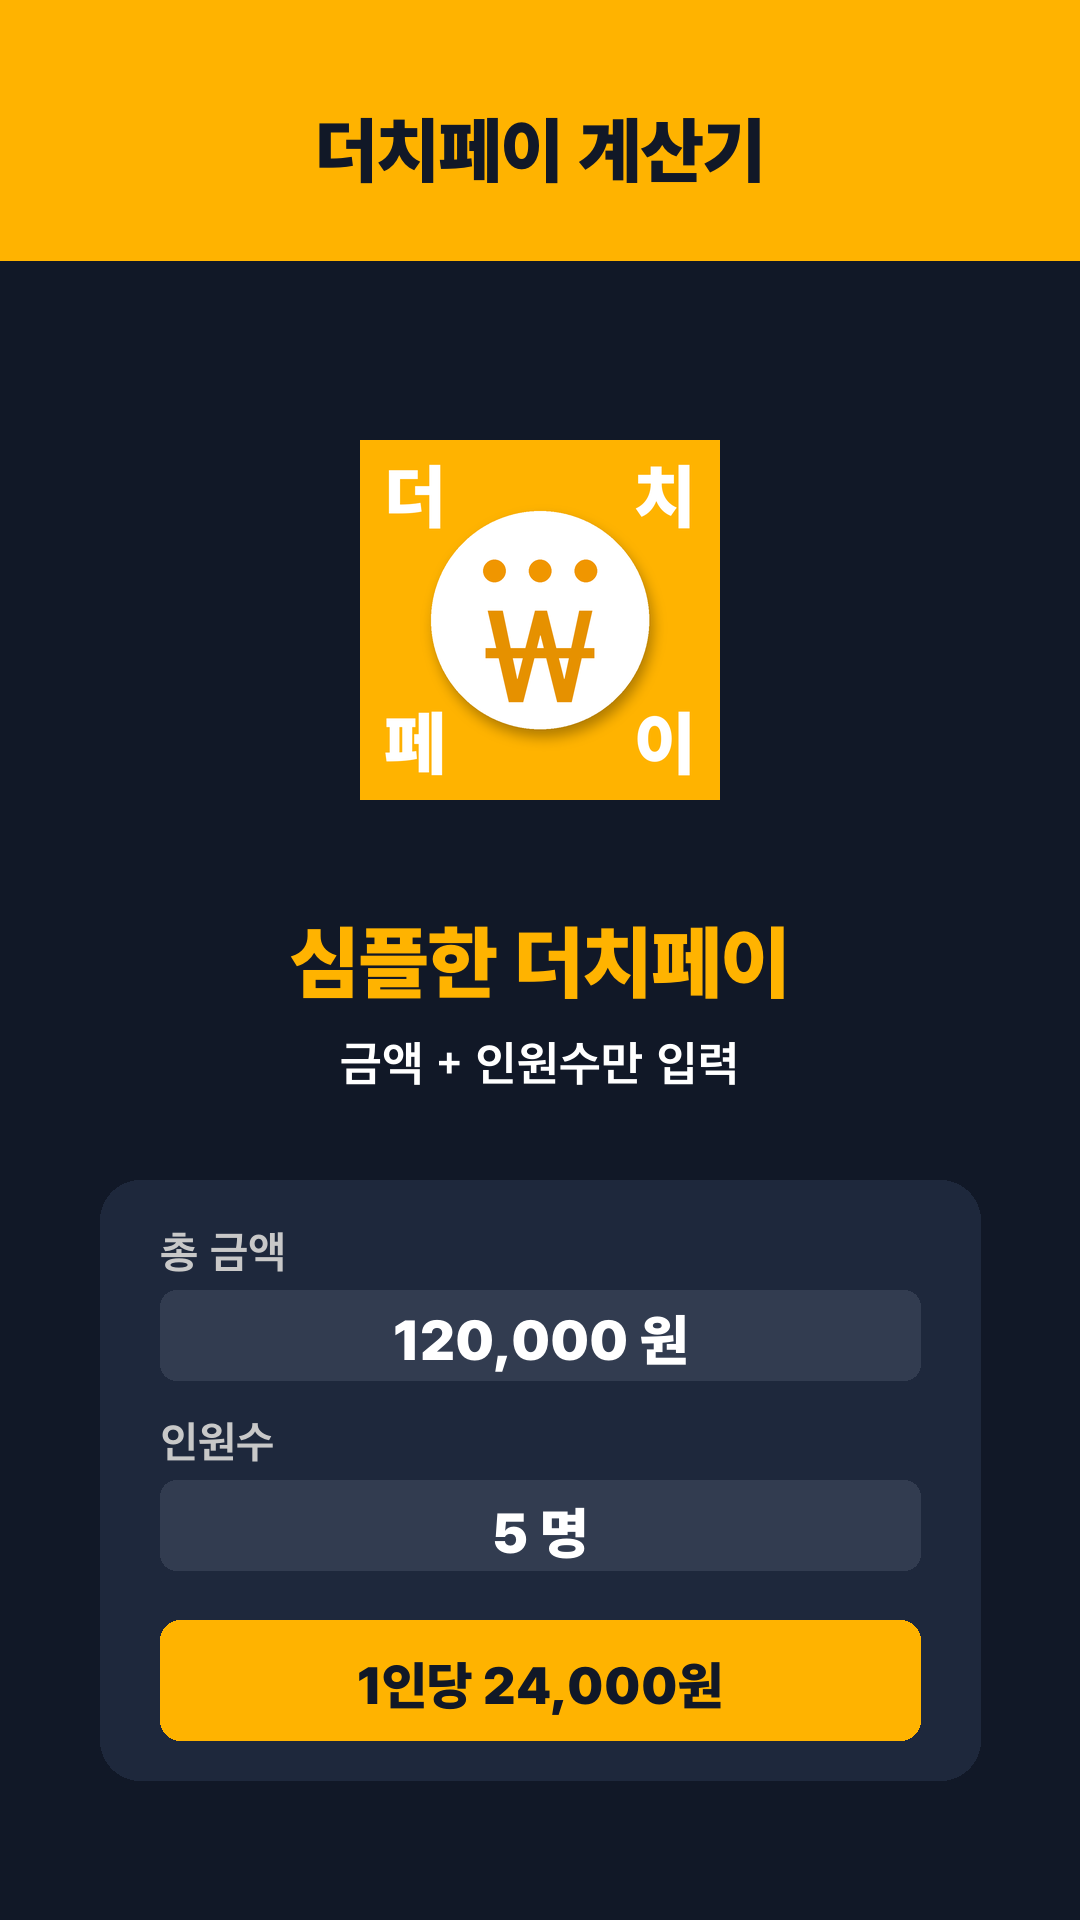
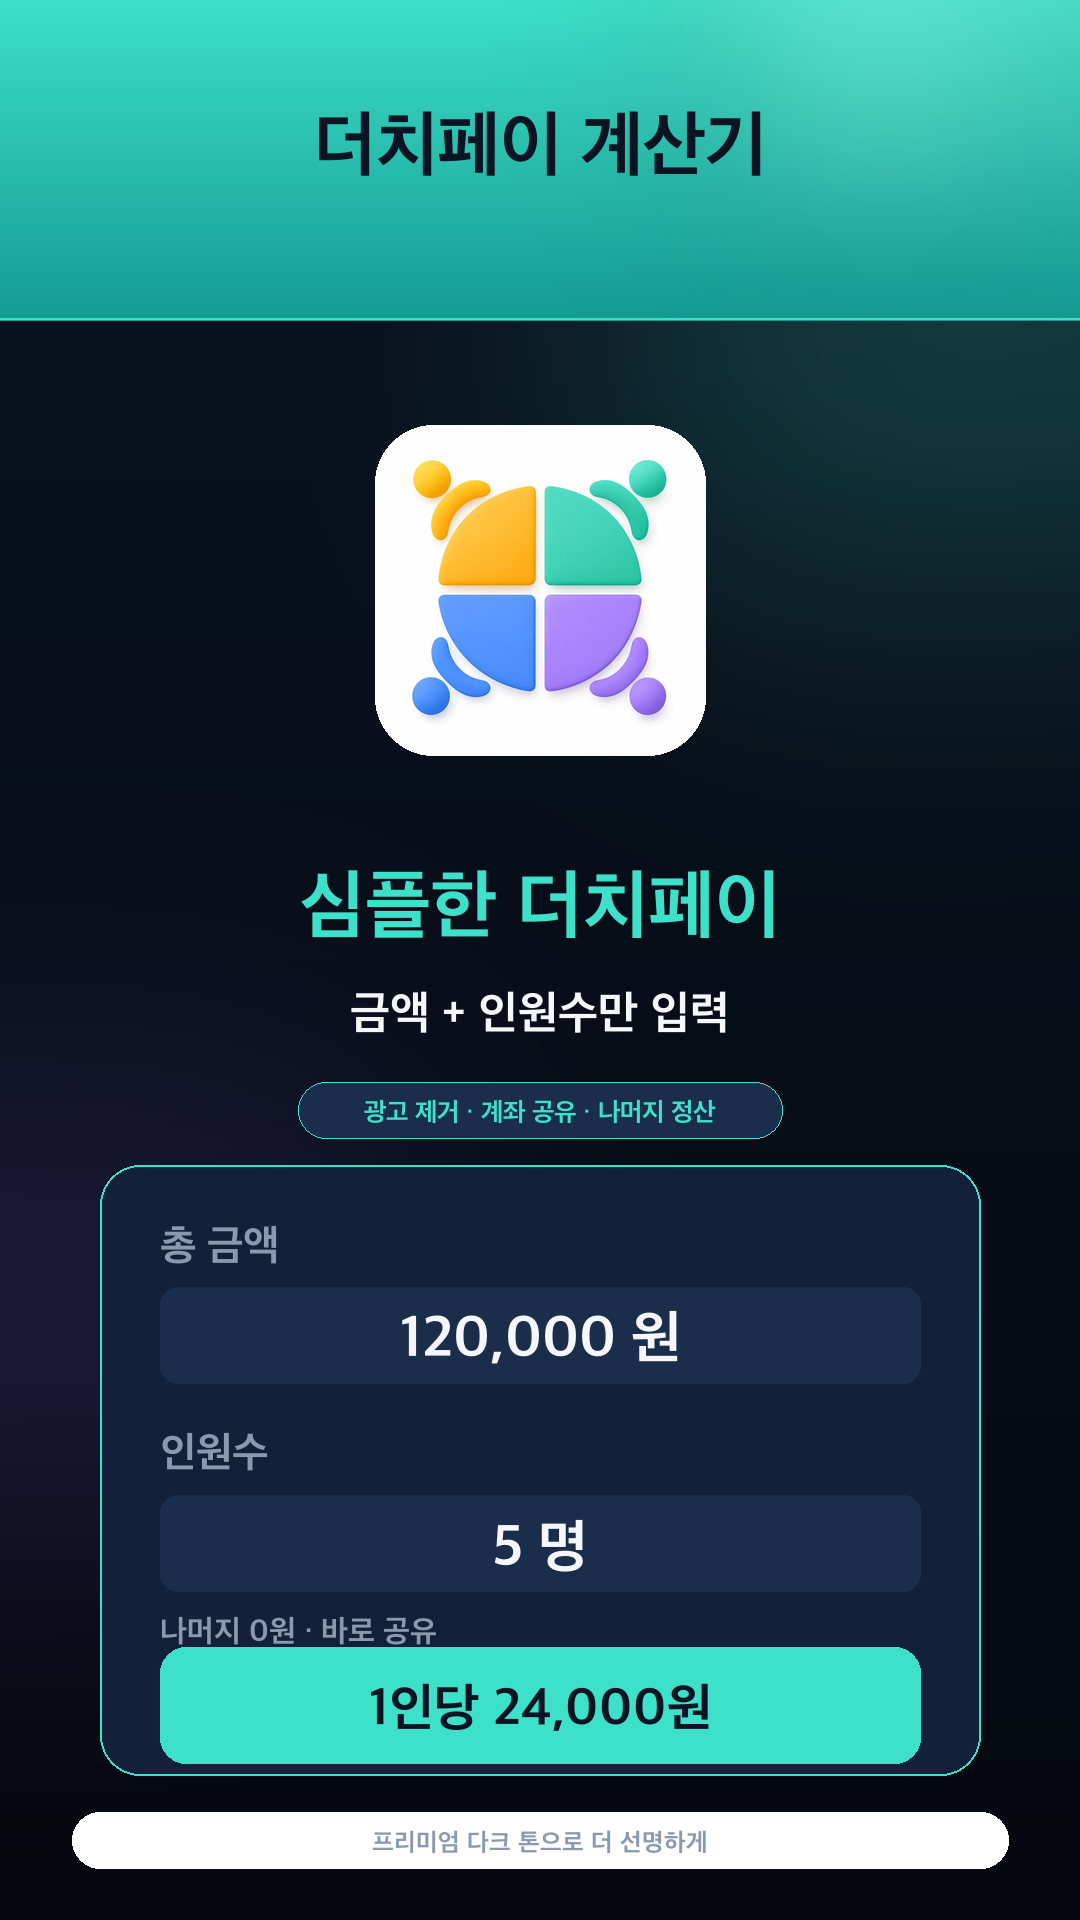
Design dark teal store promo assets (T-260616-31)

diff --git a/icon_design/gen_store_assets.py b/icon_design/gen_store_assets.py
@@ -1,107 +1,202 @@
 """
-Generate Play Store assets for 더치페이 계산기:
+Generate store promo assets for 더치페이 계산기.
+
+Outputs:
 - icon_512.png (512x512)
-- feature_graphic.png (1024x500)
-- placeholder_screenshot_*.png (1080x1920, 2 shots)
+- feature_graphic.png (1024x500, Play feature graphic)
+- screenshot_*.png (1080x1920, Play portrait screenshots)
+- app_store_6_9_screenshot_*.png (1320x2868, iOS 6.9 screenshots)
 """
-from PIL import Image, ImageDraw, ImageFont, ImageFilter
 from pathlib import Path
 
-OUT = Path("/Users/user/dutch_pay_calculator/icon_design/store_assets")
+from PIL import Image, ImageDraw, ImageFilter, ImageFont
+
+ROOT = Path(__file__).resolve().parents[1]
+OUT = ROOT / "icon_design" / "store_assets"
 OUT.mkdir(parents=True, exist_ok=True)
 
-MASTER = Path("/Users/user/dutch_pay_calculator/icon_design/icon_final_1024.png")
-AMBER = (255, 179, 0)
-AMBER_DEEP = (230, 145, 0)
-DARK = (17, 24, 39)
+MASTER = ROOT / "icon_design" / "icon3_master.png"
+
+BG_DEEP = (10, 20, 34)
+BG_BLACK = (5, 8, 15)
+SURFACE = (19, 32, 58)
+SURFACE_ELEVATED = (26, 45, 74)
+TEAL = (61, 224, 200)
+TEAL_DARK = (20, 156, 147)
+TEXT_PRIMARY = (245, 247, 250)
+TEXT_SECONDARY = (138, 152, 176)
 WHITE = (255, 255, 255)
+BLUE = (86, 151, 255)
+VIOLET = (148, 103, 255)
 
 FONT_SDGOTHIC = "/System/Library/Fonts/AppleSDGothicNeo.ttc"
 FONT_PRETENDARD_BLACK = "/Users/user/Library/Fonts/Pretendard-Black.otf"
+
+
+def _font(path, size, index=0):
+    try:
+        return ImageFont.truetype(path, size, index=index)
+    except OSError:
+        return ImageFont.truetype(FONT_SDGOTHIC, size, index=7)
 
 
 def _center_text(d, cx, cy, text, font, fill):
     bbox = d.textbbox((0, 0), text, font=font, anchor="lt")
     w = bbox[2] - bbox[0]
     h = bbox[3] - bbox[1]
-    d.text((cx - w // 2 - bbox[0], cy - h // 2 - bbox[1]),
-           text, font=font, fill=fill)
+    d.text((cx - w // 2 - bbox[0], cy - h // 2 - bbox[1]), text, font=font, fill=fill)
+
+
+def _linear_gradient(size, top, bottom):
+    w, h = size
+    img = Image.new("RGB", size, top)
+    d = ImageDraw.Draw(img)
+    for y in range(h):
+        t = y / max(h - 1, 1)
+        color = tuple(int(top[i] * (1 - t) + bottom[i] * t) for i in range(3))
+        d.line([(0, y), (w, y)], fill=color)
+    return img
+
+
+def _glow(img, center, radius, color, alpha=80):
+    layer = Image.new("RGBA", img.size, (0, 0, 0, 0))
+    d = ImageDraw.Draw(layer, "RGBA")
+    x, y = center
+    d.ellipse([x - radius, y - radius, x + radius, y + radius], fill=(*color, alpha))
+    layer = layer.filter(ImageFilter.GaussianBlur(radius // 2))
+    img.alpha_composite(layer)
+
+
+def _paste_icon(img, box, radius=54):
+    raw = Image.open(MASTER).convert("RGBA")
+    trim = max(1, raw.width // 24)
+    icon = raw.crop((trim, trim, raw.width - trim, raw.height - trim))
+    icon = icon.resize((box[2] - box[0], box[3] - box[1]), Image.LANCZOS)
+    mask = Image.new("L", icon.size, 0)
+    ImageDraw.Draw(mask).rounded_rectangle([0, 0, icon.width, icon.height], radius=radius, fill=255)
+    icon.putalpha(mask)
+    plate = Image.new("RGBA", img.size, (0, 0, 0, 0))
+    pd = ImageDraw.Draw(plate, "RGBA")
+    pd.rounded_rectangle(box, radius=radius, fill=(255, 255, 255, 245))
+    plate.alpha_composite(icon, (box[0], box[1]))
+    img.alpha_composite(plate)
+
+
+def _draw_header_band(img, h):
+    d = ImageDraw.Draw(img, "RGBA")
+    d.rounded_rectangle([0, 0, img.width, h + 60], radius=0, fill=(*TEAL_DARK, 255))
+    band = _linear_gradient((img.width, h + 60), TEAL, TEAL_DARK).convert("RGBA")
+    img.alpha_composite(band, (0, 0))
+    _glow(img, (int(img.width * 0.82), 80), int(img.width * 0.18), WHITE, alpha=38)
+    d.line([(0, h + 58), (img.width, h + 58)], fill=(*TEAL, 70), width=2)
+
+
+def _draw_mock_calculator(d, scale, x, y, w):
+    r = int(40 * scale)
+    h = int(610 * scale)
+    d.rounded_rectangle([x, y, x + w, y + h], radius=r, fill=(*SURFACE, 238), outline=(*TEAL, 58), width=max(1, int(2 * scale)))
+
+    label_font = _font(FONT_SDGOTHIC, int(42 * scale), index=7)
+    value_font = _font(FONT_PRETENDARD_BLACK, int(58 * scale))
+    cta_font = _font(FONT_PRETENDARD_BLACK, int(52 * scale))
+    small_font = _font(FONT_SDGOTHIC, int(31 * scale), index=7)
+
+    pad = int(60 * scale)
+    row_w = w - pad * 2
+
+    d.text((x + pad, y + int(58 * scale)), "총 금액", font=label_font, fill=TEXT_SECONDARY)
+    d.rounded_rectangle([x + pad, y + int(122 * scale), x + pad + row_w, y + int(218 * scale)],
+                        radius=int(18 * scale), fill=(*SURFACE_ELEVATED, 255))
+    _center_text(d, x + w // 2, y + int(170 * scale), "120,000 원", value_font, TEXT_PRIMARY)
+
+    d.text((x + pad, y + int(265 * scale)), "인원수", font=label_font, fill=TEXT_SECONDARY)
+    d.rounded_rectangle([x + pad, y + int(330 * scale), x + pad + row_w, y + int(426 * scale)],
+                        radius=int(18 * scale), fill=(*SURFACE_ELEVATED, 255))
+    _center_text(d, x + w // 2, y + int(378 * scale), "5 명", value_font, TEXT_PRIMARY)
+
+    cta_y = y + int(482 * scale)
+    d.rounded_rectangle([x + pad, cta_y, x + pad + row_w, cta_y + int(116 * scale)],
+                        radius=int(26 * scale), fill=(*TEAL, 255))
+    _center_text(d, x + w // 2, cta_y + int(58 * scale), "1인당 24,000원", cta_font, BG_DEEP)
+    d.text((x + pad, cta_y - int(32 * scale)), "나머지 0원 · 바로 공유", font=small_font, fill=(*TEXT_SECONDARY, 230))
 
 
 def icon_512():
-    im = Image.open(MASTER)
+    im = Image.open(MASTER).convert("RGB")
     im.resize((512, 512), Image.LANCZOS).save(OUT / "icon_512.png", "PNG", optimize=True)
 
 
 def feature_graphic():
-    # 1024 x 500, amber gradient + white app name + small icon
-    img = Image.new("RGB", (1024, 500), AMBER)
-    # overlay subtle gradient
-    overlay = Image.new("RGBA", (1024, 500), (0, 0, 0, 0))
-    od = ImageDraw.Draw(overlay)
-    for i in range(500):
-        a = int(50 * (i / 500))
-        od.line([(0, i), (1024, i)], fill=(200, 120, 0, a))
-    img = Image.alpha_composite(img.convert("RGBA"), overlay).convert("RGB")
+    img = _linear_gradient((1024, 500), BG_DEEP, BG_BLACK).convert("RGBA")
     d = ImageDraw.Draw(img, "RGBA")
+    _glow(img, (820, 70), 230, TEAL, 68)
+    _glow(img, (140, 450), 190, BLUE, 42)
 
-    # icon on left
-    icon = Image.open(MASTER).resize((280, 280), Image.LANCZOS)
-    img.paste(icon, (90, 110), icon if icon.mode == "RGBA" else None)
+    d.rounded_rectangle([58, 70, 366, 430], radius=42, fill=(*SURFACE, 225), outline=(*TEAL, 58), width=2)
+    _paste_icon(img, [92, 96, 332, 336], radius=42)
+    pill_font = _font(FONT_SDGOTHIC, 27, index=7)
+    d.rounded_rectangle([116, 360, 308, 402], radius=21, fill=(*SURFACE_ELEVATED, 255), outline=(*TEAL, 92), width=1)
+    _center_text(d, 212, 381, "빠른 정산", pill_font, TEAL)
 
-    # title + subtitle on right
-    title_font = ImageFont.truetype(FONT_PRETENDARD_BLACK, 96)
-    sub_font = ImageFont.truetype(FONT_SDGOTHIC, 40, index=7)
-    d.text((430, 150), "더치페이 계산기", font=title_font, fill=WHITE)
-    d.text((430, 280), "여럿이 먹은 자리, 깔끔하게 N분의 1", font=sub_font, fill=(255, 255, 255, 230))
-    img.save(OUT / "feature_graphic.png", "PNG", optimize=True)
+    title_font = _font(FONT_PRETENDARD_BLACK, 82)
+    sub_font = _font(FONT_SDGOTHIC, 37, index=7)
+    d.text((430, 118), "더치페이 계산기", font=title_font, fill=TEXT_PRIMARY)
+    d.text((434, 235), "여럿이 먹은 자리, 깔끔하게 N분의 1", font=sub_font, fill=(*TEXT_SECONDARY, 255))
+    d.rounded_rectangle([434, 322, 770, 388], radius=33, fill=(*TEAL, 255))
+    _center_text(d, 602, 354, "금액 + 인원수만 입력", _font(FONT_SDGOTHIC, 29, index=7), BG_DEEP)
+
+    img.convert("RGB").save(OUT / "feature_graphic.png", "PNG", optimize=True)
 
 
-def placeholder_screenshot(idx, title, subtitle):
-    # 1080 x 1920 portrait mockup
-    img = Image.new("RGB", (1080, 1920), DARK)
+def promo_screenshot(idx, title, subtitle, size=(1080, 1920), out_name=None):
+    w, h = size
+    scale = w / 1080
+    yscale = h / 1920
+    img = _linear_gradient(size, BG_DEEP, BG_BLACK).convert("RGBA")
     d = ImageDraw.Draw(img, "RGBA")
+    _glow(img, (int(w * 0.78), int(h * 0.18)), int(w * 0.35), TEAL, 54)
+    _glow(img, (int(w * 0.18), int(h * 0.68)), int(w * 0.34), VIOLET, 38)
 
-    # top band with amber
-    d.rectangle([0, 0, 1080, 260], fill=AMBER)
+    header_h = int(260 * yscale)
+    _draw_header_band(img, header_h)
+    title_font = _font(FONT_PRETENDARD_BLACK, int(72 * scale))
+    _center_text(d, w // 2, int(140 * yscale), "더치페이 계산기", title_font, BG_DEEP)
 
-    # App title
-    title_font = ImageFont.truetype(FONT_PRETENDARD_BLACK, 72)
-    _center_text(d, 540, 140, "더치페이 계산기", title_font, DARK)
+    icon_size = int(330 * scale)
+    icon_y = int(425 * yscale)
+    _paste_icon(img, [(w - icon_size) // 2, icon_y, (w + icon_size) // 2, icon_y + icon_size], radius=int(58 * scale))
 
-    # Big icon in middle
-    icon = Image.open(MASTER).resize((360, 360), Image.LANCZOS)
-    img.paste(icon, (360, 440), icon if icon.mode == "RGBA" else None)
+    feat_font = _font(FONT_PRETENDARD_BLACK, int(76 * scale))
+    sub_font = _font(FONT_SDGOTHIC, int(46 * scale), index=7)
+    _center_text(d, w // 2, int(900 * yscale), title, feat_font, TEAL)
+    _center_text(d, w // 2, int(1010 * yscale), subtitle, sub_font, TEXT_PRIMARY)
 
-    # Feature title
-    feat_font = ImageFont.truetype(FONT_PRETENDARD_BLACK, 80)
-    _center_text(d, 540, 950, title, feat_font, AMBER)
+    d.rounded_rectangle([int(298 * scale), int(1082 * yscale), int(782 * scale), int(1138 * yscale)],
+                        radius=int(28 * scale), fill=(*SURFACE_ELEVATED, 255), outline=(*TEAL, 92), width=max(1, int(1 * scale)))
+    _center_text(d, w // 2, int(1110 * yscale), "광고 제거 · 계좌 공유 · 나머지 정산", _font(FONT_SDGOTHIC, int(26 * scale), index=7), TEAL)
 
-    # Subtitle
-    sub_font = ImageFont.truetype(FONT_SDGOTHIC, 48, index=7)
-    _center_text(d, 540, 1060, subtitle, sub_font, WHITE)
+    mock_w = int(880 * scale)
+    mock_y = int(1165 * yscale)
+    _draw_mock_calculator(d, scale, (w - mock_w) // 2, mock_y, mock_w)
 
-    # Mock calculator UI at bottom
-    d.rounded_rectangle([100, 1180, 980, 1780], radius=40, fill=(30, 40, 60))
-    fld_font = ImageFont.truetype(FONT_SDGOTHIC, 44, index=7)
-    d.text((160, 1230), "총 금액", font=fld_font, fill=(200, 200, 200))
-    d.rounded_rectangle([160, 1290, 920, 1380], radius=16, fill=(50, 60, 80))
-    _center_text(d, 540, 1335, "120,000 원", feat_font.font_variant(size=56), WHITE)
-    d.text((160, 1420), "인원수", font=fld_font, fill=(200, 200, 200))
-    d.rounded_rectangle([160, 1480, 920, 1570], radius=16, fill=(50, 60, 80))
-    _center_text(d, 540, 1525, "5 명", feat_font.font_variant(size=56), WHITE)
-    d.rounded_rectangle([160, 1620, 920, 1740], radius=20, fill=AMBER)
-    _center_text(d, 540, 1680, "1인당 24,000원", feat_font.font_variant(size=52), DARK)
+    d.rounded_rectangle([int(72 * scale), h - int(108 * scale), w - int(72 * scale), h - int(52 * scale)],
+                        radius=int(28 * scale), fill=(255, 255, 255, 10), outline=(255, 255, 255, 18), width=1)
+    _center_text(d, w // 2, h - int(80 * scale), "프리미엄 다크 톤으로 더 선명하게", _font(FONT_SDGOTHIC, int(25 * scale), index=7), TEXT_SECONDARY)
 
-    img.save(OUT / f"screenshot_{idx}.png", "PNG", optimize=True)
+    img.convert("RGB").save(OUT / (out_name or f"screenshot_{idx}.png"), "PNG", optimize=True)
 
 
 def main():
     icon_512()
     feature_graphic()
-    placeholder_screenshot(1, "심플한 더치페이", "금액 + 인원수만 입력")
-    placeholder_screenshot(2, "빠른 정산", "한 번에 N분의 1")
-    print("Generated:", sorted([p.name for p in OUT.iterdir()]))
+    shots = [
+        (1, "심플한 더치페이", "금액 + 인원수만 입력"),
+        (2, "빠른 정산", "한 번에 N분의 1"),
+    ]
+    for idx, title, subtitle in shots:
+        promo_screenshot(idx, title, subtitle, size=(1080, 1920), out_name=f"screenshot_{idx}.png")
+        promo_screenshot(idx, title, subtitle, size=(1320, 2868), out_name=f"app_store_6_9_screenshot_{idx}.png")
+    print("Generated:", sorted([p.name for p in OUT.iterdir() if p.suffix.lower() == ".png"]))
 
 
 if __name__ == "__main__":

diff --git a/icon_design/test_store_assets.py b/icon_design/test_store_assets.py
@@ -1,0 +1,60 @@
+#!/usr/bin/env python3
+"""Regression checks for store promo asset generation."""
+import importlib.util
+import tempfile
+from pathlib import Path
+
+from PIL import Image
+
+
+ROOT = Path(__file__).resolve().parents[1]
+MODULE_PATH = ROOT / "icon_design" / "gen_store_assets.py"
+
+
+def load_module():
+    spec = importlib.util.spec_from_file_location("gen_store_assets", MODULE_PATH)
+    module = importlib.util.module_from_spec(spec)
+    spec.loader.exec_module(module)
+    return module
+
+
+def main():
+    mod = load_module()
+
+    assert mod.OUT == ROOT / "icon_design" / "store_assets"
+    assert mod.MASTER == ROOT / "icon_design" / "icon3_master.png"
+    assert mod.TEAL == (61, 224, 200)
+    assert mod.BG_DEEP == (10, 20, 34)
+    assert mod.SURFACE == (19, 32, 58)
+
+    with tempfile.TemporaryDirectory() as tmp:
+        mod.OUT = Path(tmp)
+        mod.main()
+
+        expected_sizes = {
+            "icon_512.png": (512, 512),
+            "feature_graphic.png": (1024, 500),
+            "screenshot_1.png": (1080, 1920),
+            "screenshot_2.png": (1080, 1920),
+            "app_store_6_9_screenshot_1.png": (1320, 2868),
+            "app_store_6_9_screenshot_2.png": (1320, 2868),
+        }
+        for name, size in expected_sizes.items():
+            path = mod.OUT / name
+            assert path.exists(), name
+            with Image.open(path) as im:
+                assert im.size == size, (name, im.size)
+
+        with Image.open(mod.OUT / "screenshot_1.png") as im:
+            # Header and CTA should be teal-family, not the legacy amber band.
+            header_pixel = im.convert("RGB").getpixel((540, 80))
+            cta_pixel = im.convert("RGB").getpixel((200, 1705))
+            assert header_pixel[1] > 120 and header_pixel[2] > 120, header_pixel
+            assert cta_pixel[1] > 120 and cta_pixel[2] > 120, cta_pixel
+            assert header_pixel[0] < 120 and cta_pixel[0] < 120
+
+    print("OK")
+
+
+if __name__ == "__main__":
+    main()
